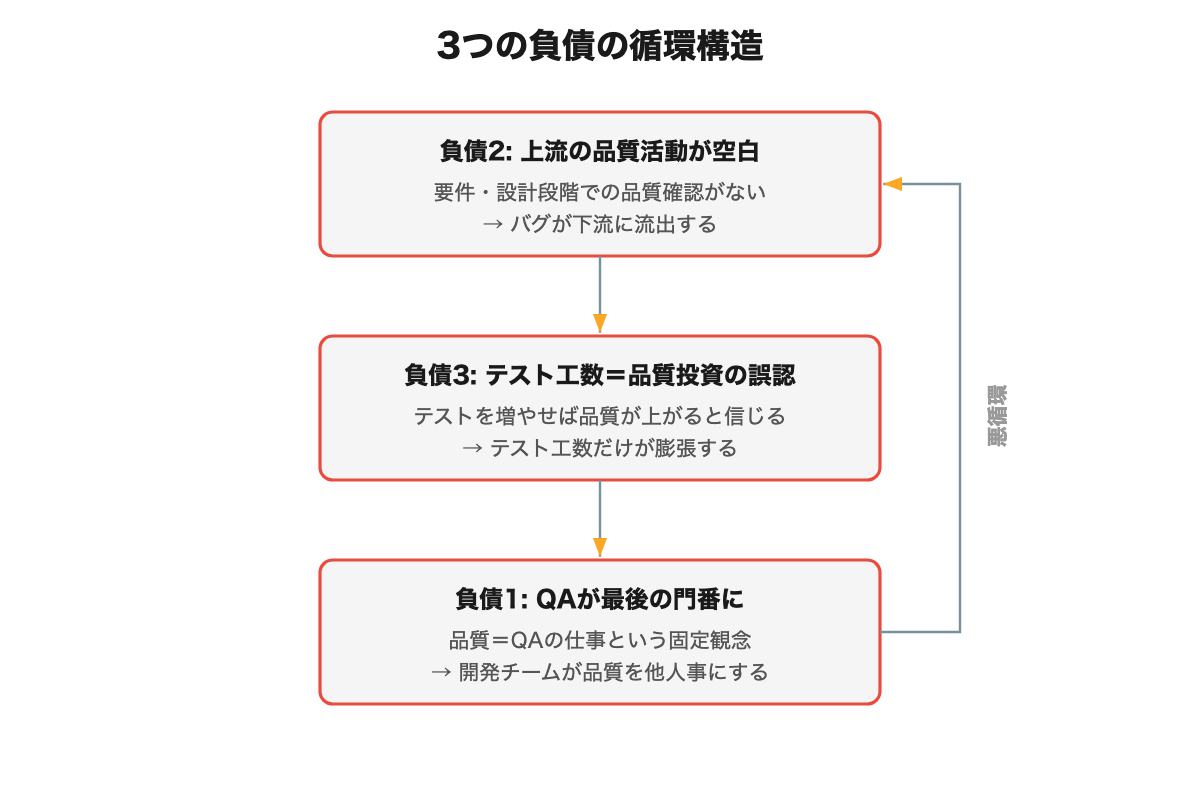
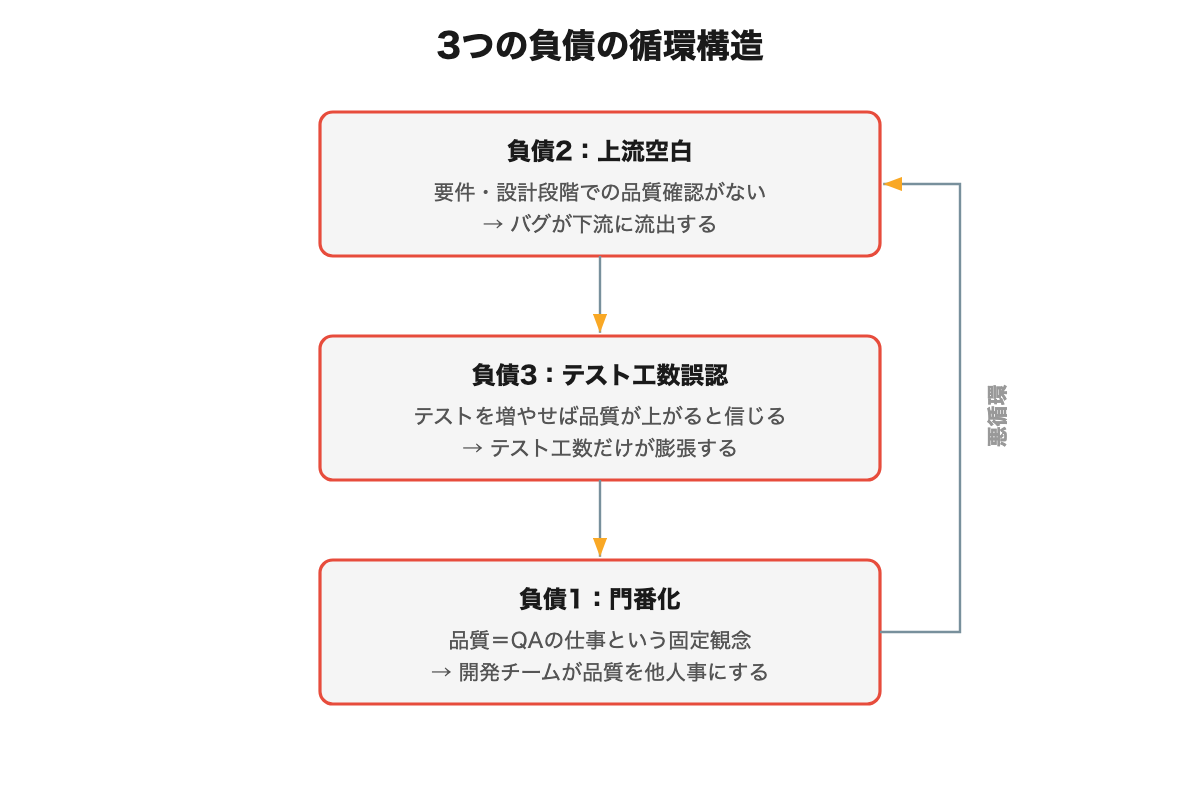
残課題を修正：章タイトルに第N章、Chapter 09の重複見出しとハブの記述、第1章と第2章の配分、負債名の統一、ピラミッドと3層モデルの配色

Changed region(s): [[0.3392, 0.4375, 0.6783, 0.5], [0.37, 0.1562, 0.6475, 0.2188], [0.37, 0.7188, 0.6167, 0.7812]]

diff --git a/books/testing-not-equals-qa/chapter1.md b/books/testing-not-equals-qa/chapter1.md
@@ -1,5 +1,5 @@
 ---
-title: "🎓 「QA＝テスト」を卒業する日"
+title: "🎓 第1章 「QA＝テスト」を卒業する日"
 ---
 
 :::message
@@ -541,7 +541,7 @@ QAはQCを含み、QCはテストを含む。テストはQAの一部であって
 ![多くの組織の現実](/images/books/testing-not-equals-qa/fig_01_reality_bar.png)
 
 
-テスト実行が活動の大部分を占め、バグ修正後の確認テスト（QC）が残りを埋め、QA活動はゼロ。この配分を意識するだけでも、「何が足りないのか」が見えてくる。
+テスト実行が活動の大部分を占め、バグ修正後の確認テスト（QC）が残りを埋め、QA活動はほぼゼロ。この配分を意識するだけでも、「何が足りないのか」が見えてくる。
 
 目指したいのは、テスト実行を効率化してQAに使える時間を増やすこと。テストの量を減らすのではなく、テストの質を上げてQAの余白を生み出す。[第5章](/93ch/books/testing-not-equals-qa/viewer/chapter5_1)でその具体的なやり方を紹介する。
 

diff --git a/books/testing-not-equals-qa/chapter5_2.md b/books/testing-not-equals-qa/chapter5_2.md
@@ -1,5 +1,5 @@
 ---
-title: "🧪 テスト戦略とテスト設計（2）── 品質サイクル"
+title: "🧪 第5章 テスト戦略とテスト設計（2）── 品質サイクル"
 ---
 
 ## 5-2. テスト観点を軸にした品質サイクル
@@ -313,10 +313,7 @@ After（4ヶ月後）: 新サービス追加時に「連携カタログにどの
 | バグトリアージ | バグがカタログのどの観点に対応するかを記録 | バグの傾向分析が観点単位でできる |
 
 
-カタログは品質サイクルの「ハブ」だと説明した。ハブが他の活動と接続されるほど、品質保証活動全体の効率が上がる。
-
-**テスト観点カタログが接続しているときの流れ**
-
+カタログは2つのループの交差点、つまり品質サイクルの「ハブ」だ。ハブが他の活動と接続されるほど、品質保証活動全体の効率が上がる。
 
 **品質サイクル接続フロー**
 

diff --git a/books/testing-not-equals-qa/chapter5_3.md b/books/testing-not-equals-qa/chapter5_3.md
@@ -1,5 +1,5 @@
 ---
-title: "🧪 テスト戦略とテスト設計（3）── AI時代のテスト設計"
+title: "🧪 第5章 テスト戦略とテスト設計（3）── AI時代のテスト設計"
 ---
 
 ## 5-3. AI時代のテスト設計: 「削る力」

diff --git a/books/testing-not-equals-qa/chapter3_2.md b/books/testing-not-equals-qa/chapter3_2.md
@@ -1,5 +1,5 @@
 ---
-title: "🗂 QA活動カタログ（2）── 中流・後工程・横断活動"
+title: "🗂 第3章 QA活動カタログ（2）── 中流・後工程・横断活動"
 ---
 
 ## 3-3. 中流で効く活動

diff --git a/books/testing-not-equals-qa/chapter8_work.md b/books/testing-not-equals-qa/chapter8_work.md
@@ -1,7 +1,7 @@
 > [COMPLETE-ONLY] 完全版のみ（シンプル版には未収録）
 
 ---
-title: "✏ セルフコンサル・ワーク集"
+title: "✏ 第8章 セルフコンサル・ワーク集"
 ---
 
 :::message

diff --git a/books/testing-not-equals-qa/chapter3_3.md b/books/testing-not-equals-qa/chapter3_3.md
@@ -1,5 +1,5 @@
 ---
-title: "🗂 QA活動カタログ（3）── どこから始めるか"
+title: "🗂 第3章 QA活動カタログ（3）── どこから始めるか"
 ---
 
 ## 3-5. どこから始めるか

diff --git a/books/testing-not-equals-qa/appendix.md b/books/testing-not-equals-qa/appendix.md
@@ -1,5 +1,5 @@
 ---
-title: "📋 索引・テンプレート・チートシート・ロードマップ"
+title: "📋 付録 索引・テンプレート・チートシート・ロードマップ"
 ---
 
 ## A. 索引

diff --git a/books/testing-not-equals-qa/chapter5_1.md b/books/testing-not-equals-qa/chapter5_1.md
@@ -1,5 +1,5 @@
 ---
-title: "🧪 テスト戦略とテスト設計（1）── 戦略 vs 計画"
+title: "🧪 第5章 テスト戦略とテスト設計（1）── 戦略 vs 計画"
 ---
 
 :::message

diff --git a/books/testing-not-equals-qa/chapter3_1.md b/books/testing-not-equals-qa/chapter3_1.md
@@ -1,5 +1,5 @@
 ---
-title: "🗂 QA活動カタログ（1）── 全体像と上流活動"
+title: "🗂 第3章 QA活動カタログ（1）── 全体像と上流活動"
 ---
 
 :::message

diff --git a/books/testing-not-equals-qa/chapter2.md b/books/testing-not-equals-qa/chapter2.md
@@ -1,5 +1,5 @@
 ---
-title: "⚠ QA＝テストが組織にもたらす構造的負債"
+title: "⚠ 第2章 QA＝テストが組織にもたらす構造的負債"
 ---
 
 :::message

diff --git a/books/testing-not-equals-qa/chapter6.md b/books/testing-not-equals-qa/chapter6.md
@@ -1,5 +1,5 @@
 ---
-title: "🤖 AI時代こそ「QA≠テスト」が生死を分ける"
+title: "🤖 第6章 AI時代こそ「QA≠テスト」が生死を分ける"
 ---
 
 :::message

diff --git a/books/testing-not-equals-qa/chapter4.md b/books/testing-not-equals-qa/chapter4.md
@@ -1,5 +1,5 @@
 ---
-title: "🎯 「うちの品質」を定義する"
+title: "🎯 第4章 「うちの品質」を定義する"
 ---
 
 :::message
